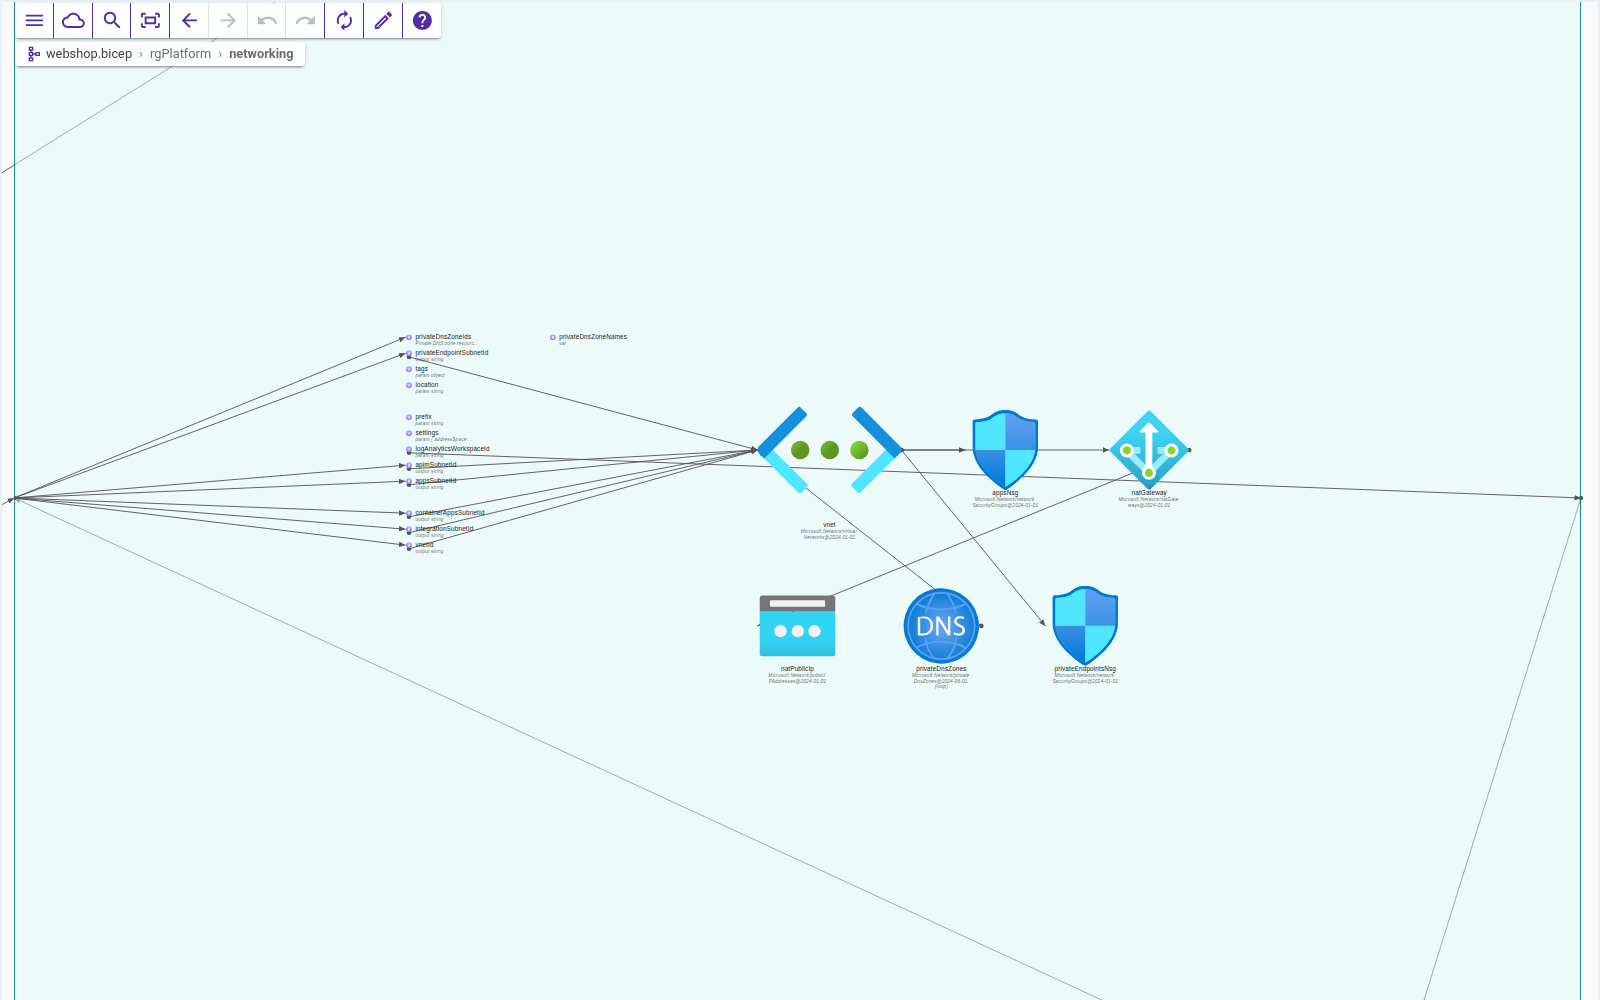
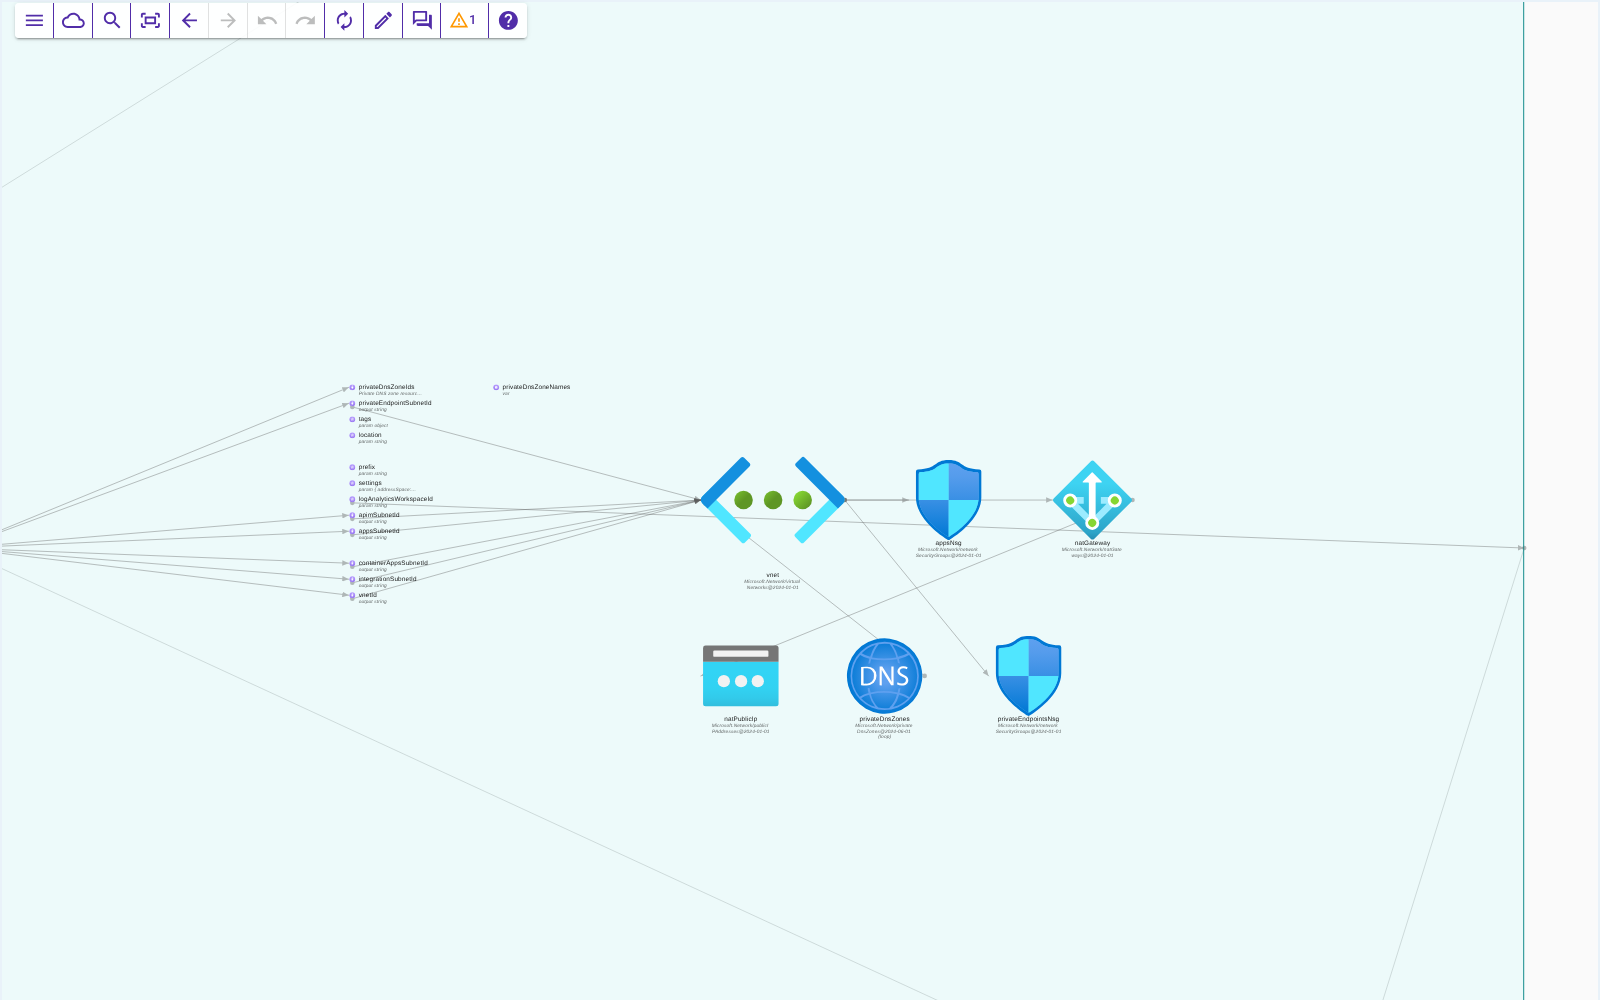
Update the docs and demo images for the recent features
The user guide, both READMEs, the change log, the architecture overview and
the changes list now cover Copilot as an AI provider, the one fix button,
"Ask how to break it", the codebase tour, the Settings dialog, soft lines and
the breadcrumb that shows only while a node is selected. The demo gif and the
README images are re-recorded with today's UI.

Claude-Session: https://claude.ai/code/session_01TRPc4wDU9RXo7J7An1t7yt

diff --git a/src/Dependinator.UI/wwwroot/help.html b/src/Dependinator.UI/wwwroot/help.html
@@ -179,8 +179,9 @@
                 add your own nodes, links, notes and zones, or sketch an architecture from an empty model.</li>
             <li class="feature"><b>Export</b> — save the current view, a selected area or the whole diagram
                 as an SVG or PNG image.</li>
-            <li class="feature"><b>Ask an AI</b> — ask about the model, review a cycle or a broken rule, get rules
-                suggested, or have Claude Code improve comments or make a fix (see <a href="#ai">AI help</a>).</li>
+            <li class="feature"><b>Ask an AI</b> — ask about the model, take a guided tour of the codebase, review a
+                cycle or a broken rule, get rules suggested, or have Claude Code or Copilot improve comments or make
+                a fix (see <a href="#ai">AI help</a>).</li>
             <li class="feature"><b>Optional device sync</b> — enable device sync to keep your models and
                 views in sync across devices.</li>
         </ul>
@@ -196,9 +197,9 @@
                 <i>PanZoomService</i>; <kbd>↑</kbd> <kbd>↓</kbd> and <kbd>Enter</kbd> pick a result.</li>
             <li>Use <b>Fit to Screen</b> (the toolbar button, <kbd>Home</kbd>, or the right-click menu) to
                 recenter and reset the view at any time.</li>
-            <li>The <b>breadcrumb</b> under the toolbar shows where you are: the model, then the containers down
-                to the selected node (or, with nothing selected, to the container around the middle of the
-                screen). Click any crumb to zoom to it; the model crumb fits the whole diagram.</li>
+            <li>The <b>breadcrumb</b> under the toolbar shows, while a node is selected, where it is: the model,
+                then the containers down to the selected node. Click any crumb to zoom to it; the model crumb fits
+                the whole diagram. With nothing selected it is hidden, to keep the diagram clear.</li>
             <li><b>Back</b> and <b>Forward</b> (the toolbar arrows, <kbd>Alt</kbd>+<kbd>←</kbd> / <kbd>→</kbd>,
                 or <kbd>Backspace</kbd> / <kbd>Shift</kbd>+<kbd>Backspace</kbd>) retrace your jumps: every
                 search result, explorer row, breadcrumb click, double-click and Fit to Screen is a step
@@ -218,7 +219,9 @@
         </p>
         <p>
             <b>New here?</b> On the first start a short tour walks through the basics (zoom, click a node,
-            open the explorer, search); <b>Menu › Help › Show Tips</b> brings it back any time.
+            open the explorer, search); <b>Menu › Help › Show Tips</b> brings it back any time. To get to know the
+            code itself, <b>Menu › Help › Tour This Codebase …</b> has an AI walk you through its key parts (see
+            <a href="#ai">AI help</a>).
         </p>
         <ul>
             <li class="feature"><b>Show references / dependencies</b> — open the Dependencies explorer for the
@@ -266,12 +269,13 @@
                 whether the cycle is intended, or how to break it; the prompt includes the source code behind the cycle's
                 thinnest dependencies in VS Code and the local web app. For a second opinion, ask again or ask another AI:
                 each answer is kept, labeled by where it came from, and when they differ you pick the one that convinces
-                you. An accepting answer fills in the reason. A breaking one shows the change and offers <b>Copy fix
-                prompt</b>, a prompt for Claude Code (or another AI that can change the code) to make it, or <b>Fix with
-                Claude Code</b> when Claude Code is turned on; <b>Fix
-                later</b>, which moves the cycle to the <b>To fix</b> section with the planned change (its lines stay red,
-                and its fix prompt can be copied from there); or <b>Accept anyway</b>, with the suggested fix kept in the
-                reason. Nothing is saved until you decide. If a refactor breaks an accepted or to-fix cycle, or a node
+                you. An accepting answer fills in the reason; <b>Ask how to break it</b> under it asks for the change
+                that would break the cycle anyway. A breaking one shows the change and offers <b>Fix with</b> the default
+                AI that can change code (Claude Code, or Copilot in VS Code), with the <b>▾</b> menu beside it for another
+                one or <b>Copy fix prompt</b>, a prompt for any AI that can change the code (the button itself where none
+                can); <b>Fix later</b>, which moves the cycle to the <b>To fix</b> section with the planned change (its
+                lines stay red, and its fix prompt can be copied from there); or <b>Accept anyway</b>, with the suggested
+                fix kept in the reason. Nothing is saved until you decide. If a refactor breaks an accepted or to-fix cycle, or a node
                 joins one, the refresh message says so, and the entry is marked and listed first in its section until you
                 remove it.</li>
             <li class="feature"><b>Architecture rules</b> — <b>View › Show Architecture Rules</b> lets you declare
@@ -330,7 +334,7 @@
 
         <h2 id="ai">AI help</h2>
         <p>
-            Wherever Dependinator can use an AI, it asks the one you chose. There are three:
+            Wherever Dependinator can use an AI, it asks the one you chose. There are four:
         </p>
         <ul>
             <li class="feature"><b>Claude</b> — the Anthropic API with your own API key (from console.anthropic.com),
@@ -341,6 +345,9 @@
                 your own Claude login. It runs in the model's folder and reads the code to check its answer. It is off
                 until you turn it on in <b>Settings › AI</b>, after a warning: it is unclear whether Anthropic's terms
                 allow a third-party tool to use a Claude subscription this way.</li>
+            <li class="feature"><b>Copilot</b> — in VS Code, a language model VS Code offers to extensions, GitHub
+                Copilot's by default, with your Copilot plan. <b>Settings › AI</b> chooses the model. To change code it
+                hands the prompt to Copilot Chat in agent mode, where you keep or undo each edit.</li>
             <li class="feature"><b>Your AI chat</b> — free: copy the prompt into claude.ai or any AI chat, then paste its
                 answer back, where it is read as soon as it is pasted. <b>Open claude.ai</b> opens a chat to paste it
                 into.</li>
@@ -348,20 +355,24 @@
         <p>
             The first time you ask, the choices are shown side by side, and the one you pick becomes the
             <b>default</b>. From then on the button asks the default at once, and the <b>▾</b> menu beside it asks
-            another AI, once. <b>Settings › AI</b> changes the default and turns Claude Code on or off. If asking
+            another AI, once. <b>Settings › AI</b> changes the default, turns Claude Code on or off and picks Copilot's model. If asking
             fails (no key, a key not accepted, no credits left, Claude Code not installed), the AI chat route is
             offered instead. <b>Show prompt</b> shows what is sent or copied before you send it. Claude and Claude
-            Code are offered in VS Code and the local web app; the web app at dependinator.com offers the AI chat
-            route.
+            Code are offered in VS Code and the local web app, Copilot in VS Code; the web app at dependinator.com
+            offers the AI chat route.
         </p>
         <ul>
             <li class="feature"><b>Ask About the Model</b> — the speech-bubble button in the app bar (or
                 <b>View › Ask About the Model</b>) opens a panel for questions such as where something is handled or
-                what a change would touch. Claude or Claude Code looks the answer up in the model with Dependinator's
+                what a change would touch. Claude, Claude Code or Copilot looks the answer up in the model with Dependinator's
                 tools, and reads a node's code when it needs to; each lookup shows as a line while it works. Node names
                 in the answer are links to the diagram, and <b>Show all</b> zooms to every node it names. Ask
                 follow-ups: the AI sees the conversation until you clear it. The chip under the question box shows which AI
                 answers and switches to another. VS Code and the local web app only.</li>
+            <li class="feature"><b>Tour This Codebase …</b> — in <b>Menu › Help</b>: an AI reads the model's structure
+                and dependencies and picks 5 to 8 key parts in the order a newcomer should read them. <b>Start tour</b>
+                then zooms to each one with a few words on it; <b>Back</b> and <b>Next</b> step through the stops. The
+                tour is not saved yet: ask again for a new one.</li>
             <li class="feature"><b>Review a cycle or a broken rule</b> — <b>Get an AI opinion</b> in the review (see
                 <b>Find cycles</b> and <b>Architecture rules</b> above).</li>
             <li class="feature"><b>Suggest rules …</b> — in the Rules panel, asks for architecture rules from the
@@ -372,10 +383,13 @@
                 here?" by default).</li>
             <li class="feature"><b>Improve Comments …</b> — in the node menu and the About Node dialog: Claude Code
                 adds or rewrites the comments of namespaces and types, which the diagram shows as descriptions;
-                without Claude Code the prompt is copied for any coding agent.</li>
-            <li class="feature"><b>Fix with Claude Code</b> — when an answer suggests breaking a cycle or fixing a
-                broken rule, Claude Code makes the change in the model's folder (edits only, no commands), after a
-                warning about uncommitted changes, then lists the changed files and re-parses.</li>
+                <b>Improve with Copilot</b> hands the same prompt to Copilot Chat in VS Code, and without either the
+                prompt is copied for any coding agent.</li>
+            <li class="feature"><b>Fix with …</b> — when an answer suggests breaking a cycle or fixing a broken rule,
+                one button makes the change with the default AI that can change code. Claude Code makes it in the
+                model's folder (edits only, no commands), after a warning about uncommitted changes, then lists the
+                changed files and re-parses. Copilot makes it in Copilot Chat's agent mode, and the diagram re-parses
+                when the files change. The <b>▾</b> menu beside it picks another AI or copies the fix prompt.</li>
             <li class="feature"><b>AI agents can ask Dependinator</b> — in VS Code a local MCP server lets Copilot's
                 agent mode, and Claude Code after "Dependinator: Connect Claude Code", look up nodes, dependencies,
                 paths, cycles and rules of the open diagram.</li>
@@ -443,9 +457,10 @@
 
         <div class="card">
             <b>The menu</b> (the <span style="color:var(--brand-dark)">☰</span> button, top-left) is your
-            hub: search and fit, undo/redo and edit mode, export as image, view options and the light/dark
-            theme, your models (<b>Models › Manage Models</b> lists the workspace's solutions and Bicep deployments, recent models,
-            models in the cloud and design models), settings, and help.
+            hub: search and fit, undo/redo and edit mode, export as image, view options, your models
+            (<b>Models › Manage Models</b> lists the workspace's solutions and Bicep deployments, recent models,
+            models in the cloud and design models), <b>Settings …</b> (the theme, light by default, and the layout
+            density, diagram lines and badges, mouse zoom, this model's test projects and the AI), and help.
         </div>
 
         <h2>VS Code vs. the web app</h2>

diff --git a/src/DependinatorVsCode/README.md b/src/DependinatorVsCode/README.md
@@ -28,7 +28,8 @@ next, so please [report bugs and ideas](https://github.com/michael-reichenauer/D
 ## Features
 
 - **Interactive map.** Pan, zoom and double-click to drill into any node. The
-  breadcrumb and search (`Ctrl+F`) take you anywhere in one step.
+  breadcrumb and search (`Ctrl+F`) take you anywhere in one step. Lines are
+  drawn soft until you select or hover a node, so busy diagrams stay readable.
 - **C# and Bicep.** .NET solutions are parsed with Roslyn, Azure Bicep
   deployments with the Bicep compiler; resources carry their Azure icons, local
   modules expand in place, and existing resources show as externals.
@@ -41,14 +42,18 @@ next, so please [report bugs and ideas](https://github.com/michael-reichenauer/D
   nodes and links, or sketch an architecture from an empty model. Every edit can
   be undone.
 - **Icon library** with curated Azure, AWS and Google Cloud service icons.
-- **Light and dark themes** (following VS Code), a mini-map, a legend, and
-  export of the diagram as an image.
+- **Light and dark themes**, a mini-map, a legend, and export of the diagram as
+  an image. One **Settings** dialog holds the theme, layout density, line and
+  badge options, and the AI.
 - **AI help.** Ask questions about the model (the nodes in the answer link to
-  the diagram), have a dependency cycle or a broken architecture rule reviewed,
-  get rules suggested, and let Claude Code improve comments or make a fix. Pick
-  the AI once in Settings › AI: Claude with your own Anthropic API key, Claude
-  Code on your computer with your Claude login (experimental), or any AI chat by
-  copying the prompt and pasting the answer back.
+  the diagram), take an AI-planned tour of the codebase's key parts (Help › Tour
+  This Codebase), have a dependency cycle or a broken architecture rule reviewed,
+  get rules suggested, and let Claude Code or Copilot improve comments or make a
+  fix. Pick the AI once in Settings › AI: **Copilot** (or another language model
+  VS Code offers) with your Copilot plan, Claude with your own Anthropic API key,
+  Claude Code on your computer with your Claude login (experimental), or any AI
+  chat by copying the prompt and pasting the answer back. Copilot makes fixes in
+  Copilot Chat's agent mode, where you keep or undo each edit.
 - **AI agents can ask about the map.** A local MCP server lets Copilot's agent
   mode (and Claude Code, after *Dependinator: Connect Claude Code*) look up
   nodes, dependencies, paths, cycles and architecture rules of the open diagram.

diff --git a/docs/ARCHITECTURE.md b/docs/ARCHITECTURE.md
@@ -21,7 +21,7 @@ own notes, icons and hand-drawn nodes on top.
 | **Stack** | .NET 10 (built with the .NET 11 preview SDK for C# 15 unions), Blazor WebAssembly and Blazor Server, MudBlazor, StreamJsonRpc, OmniSharp LSP, TypeScript for the extension, Azure Static Web Apps, Azure Functions and Blob Storage, Clerk for sign-in |
 | **Size** | About 41k lines of product code, 70% of it in the shared UI library; about 25k lines of tests |
 | **Tests** | About 900 unit tests, a Playwright UI suite run in Chromium, Firefox and WebKit, and architecture tests that guard the layering |
-| **Releases** | Version 0.83 (beta), about 30 releases since July 2026. Previews and releases are made by hand with the Release workflow (`docs/RELEASING.md`) |
+| **Releases** | Version 0.88 (beta), about 35 releases since July 2026. Previews and releases are made by hand with the Release workflow (`docs/RELEASING.md`) |
 
 ## 1. Context view: who uses Dependinator, and what it talks to
 
@@ -41,8 +41,10 @@ stores the synced models, and the **Anthropic Claude API** answers the AI featur
 asks (reviewing a cycle or a dependency that breaks a rule, suggesting rules, questions about a node
 or the model), with the user's own API key. Claude is called from the VS Code extension's language
 server and from the dev host, never from the browser app. The same features can instead run the
-user's local **Claude Code** (experimental) or go through any AI chat by copy and paste; the user
-picks the default in Settings › AI. The other way round, AI agents (Copilot or
+user's local **Claude Code** (experimental), in VS Code a model VS Code offers to extensions
+(**Copilot**'s by default, through its Language Model API, asked by the extension for the language
+server, with fixes handed to Copilot Chat's agent mode), or go through any AI chat by copy and
+paste; the user picks the default in Settings › AI. The other way round, AI agents (Copilot or
 Claude Code) can ask Dependinator about the open model through its **MCP server** on localhost.
 
 Points to discuss: source code never leaves the machine through sync, only the drawn model does,

diff --git a/README.md b/README.md
@@ -46,7 +46,8 @@ inside, and jump from any node straight to its source.
 ## Features
 
 - **Interactive map.** Pan, zoom and double-click to drill into any node. The
-  breadcrumb and search (`Ctrl+F`) take you anywhere in one step.
+  breadcrumb and search (`Ctrl+F`) take you anywhere in one step. Lines are
+  drawn soft until you select or hover a node, so busy diagrams stay readable.
 - **C# and Bicep.** .NET solutions are parsed with Roslyn, Azure Bicep
   deployments with the Bicep compiler; resources carry their Azure icons, local
   modules expand in place, and existing resources show as externals.
@@ -60,12 +61,15 @@ inside, and jump from any node straight to its source.
   be undone.
 - **Icon library** with curated Azure, AWS and Google Cloud service icons.
 - **Light and dark themes**, a mini-map, a legend, and export of the diagram as
-  an image.
+  an image. One **Settings** dialog holds the theme, layout density, line and
+  badge options, and the AI.
 - **AI help.** Ask questions about the model and get answers that link to the
-  diagram, have a dependency cycle or a broken architecture rule reviewed, get
-  rules suggested, and let Claude Code improve comments or make a fix. Pick the
-  AI once in Settings › AI: Claude with your own API key, Claude Code on your
-  computer (experimental), or any AI chat by copying the prompt.
+  diagram, take an AI-planned tour of the codebase's key parts, have a dependency
+  cycle or a broken architecture rule reviewed, get rules suggested, and let
+  Claude Code or Copilot improve comments or make a fix. Pick the AI once in
+  Settings › AI: Claude with your own API key, Claude Code on your computer
+  (experimental), Copilot in VS Code with your Copilot plan, or any AI chat by
+  copying the prompt.
 - **Multiple models** per workspace, with optional sync across devices.
 
 ## Get started

diff --git a/CHANGELOG.md b/CHANGELOG.md
@@ -14,6 +14,8 @@ with the next official release.
 - **Menu › Settings …** opens one dialog for the preferences set once, saved as they change: **Appearance** (theme, and the layout density **Compact**, **Balanced** or **Spacious**), **Diagram** (soft lines, dimming unrelated lines, line widths by link count, problem and hidden node badges, which moved there from **View**), **Mouse** (inverted scroll zoom), **This model** (including test projects) and **AI**
 - Resting the mouse on a node's icon or member row lights its lines for a moment, without clicking
 - In VS Code, the AI help can ask **Copilot** (or another language model VS Code offers) for a review, About Node or suggested rules, with your Copilot plan, and Copilot can answer questions in the **Ask** panel too, looking things up in the model; **Settings › AI** picks it as the default and chooses the model
+- **Help › Tour This Codebase …** has an AI (any of the providers, or your own AI chat) pick the 5 to 8 key parts of the codebase in the order a newcomer should read them; **Start tour** then zooms to each one with a few words on it, with **Back** and **Next**
+- When an AI suggests accepting a cycle, **Ask how to break it** under its answer asks for the change that would break it anyway, which then gets the fix button; **Fix later** is offered beside **Accept** too
 - In VS Code, **Fix with Copilot** in the cycle and rule reviews, and **Improve with Copilot** in **Improve comments**, hand the prompt to Copilot Chat in agent mode, which makes the change and lets you keep or undo each edit; the diagram re-parses when the files change
 
 ### Improved

diff --git a/docs/notes/CHANGES-2026.md b/docs/notes/CHANGES-2026.md
@@ -30,6 +30,9 @@ project works.
   and then manual previews and releases, a README and community-files rework, the Bicep parser, zones, line labels and aliases,
   node sizes by code and centrality in the automatic layout, accepted cycles, AI prompts and
   Claude's suggestions for cycles and broken rules, About Node with a question for an AI, comments improved by Claude Code, an MCP server for AI agents, AI-suggested rules and questions about the model, one default AI for all of them, C# member naming fixes, and a problem indicator with node badges.
+- **Nov**: a Settings dialog, soft lines, a calmer dark theme and light by default, Copilot as a
+  third AI provider in VS Code (answers, model lookups, fixes in Copilot Chat), one fix button,
+  "Ask how to break it" for accepted cycles, and an AI-planned tour of the codebase.
 
 Extension versions: 0.5.x (Jan–Mar), 0.8.x (Jul–Oct 6), then one minor bump per release: 0.9.0,
 0.10.0, 0.80.0, 0.81.0 (Oct 8).
